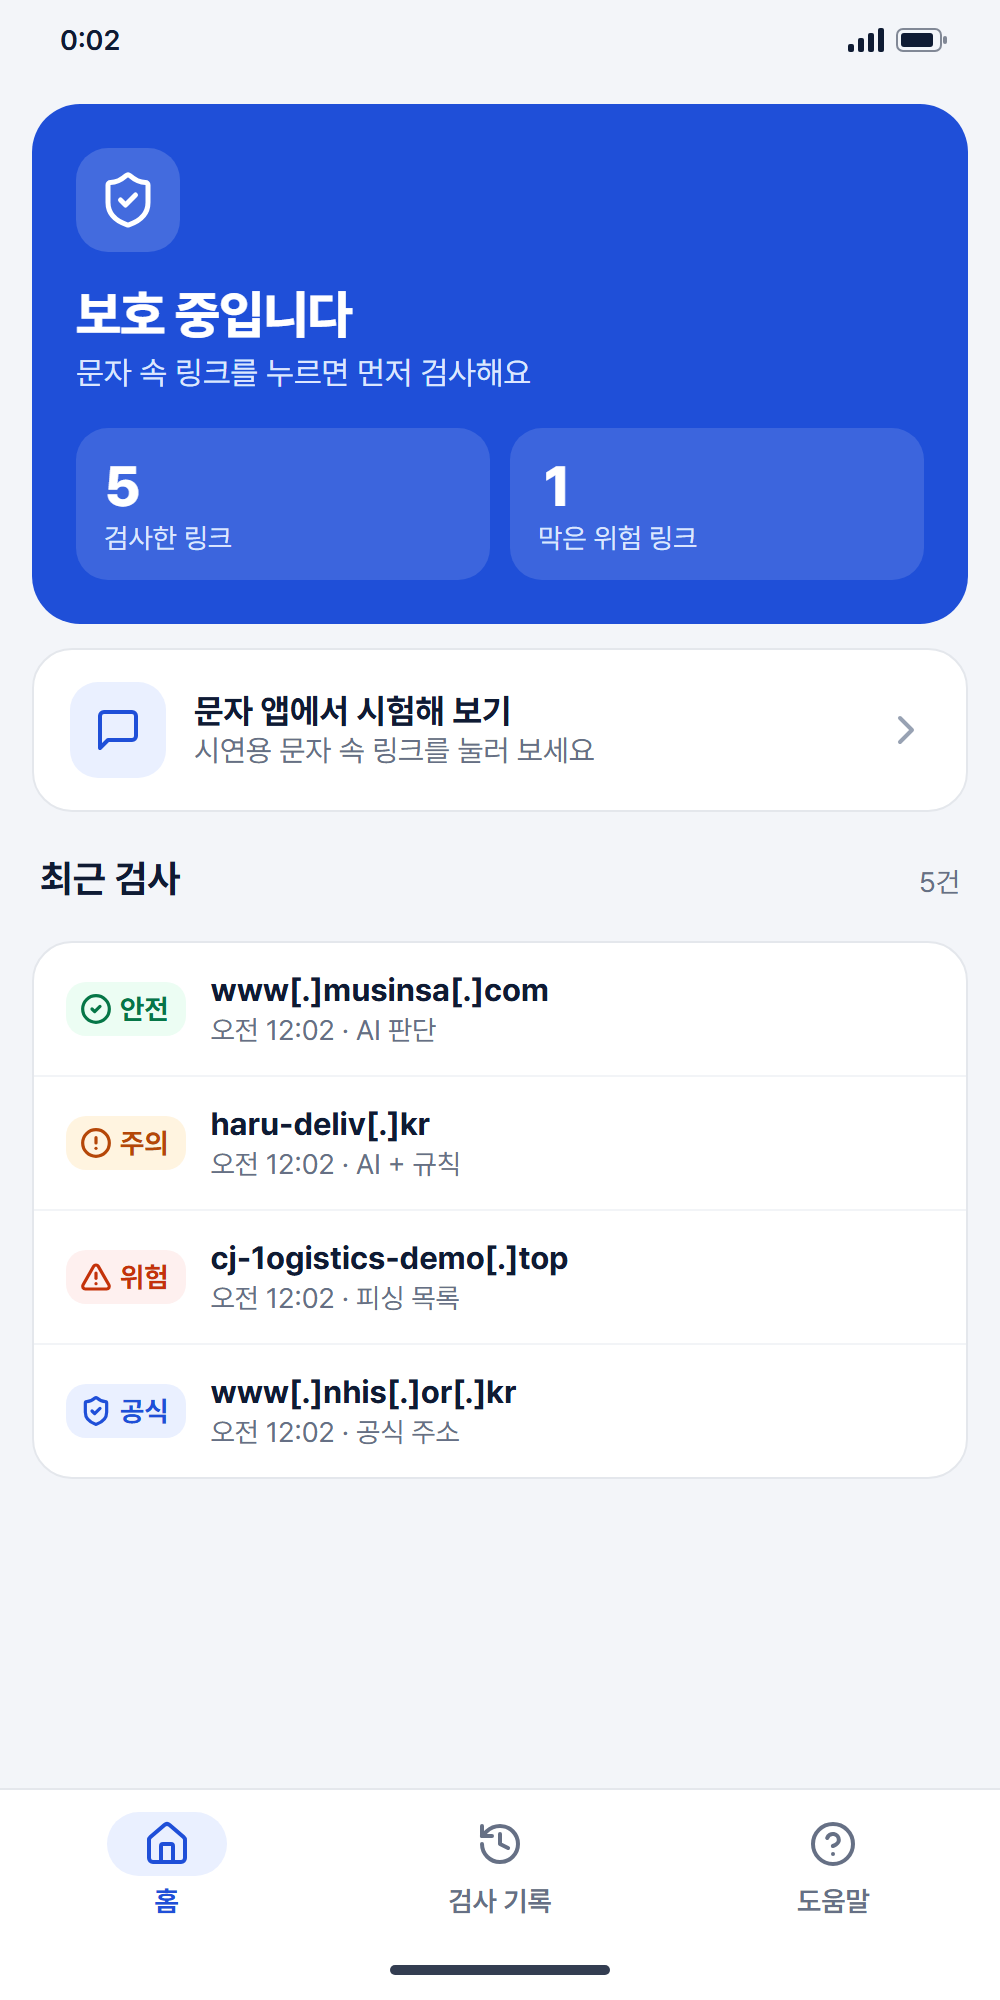
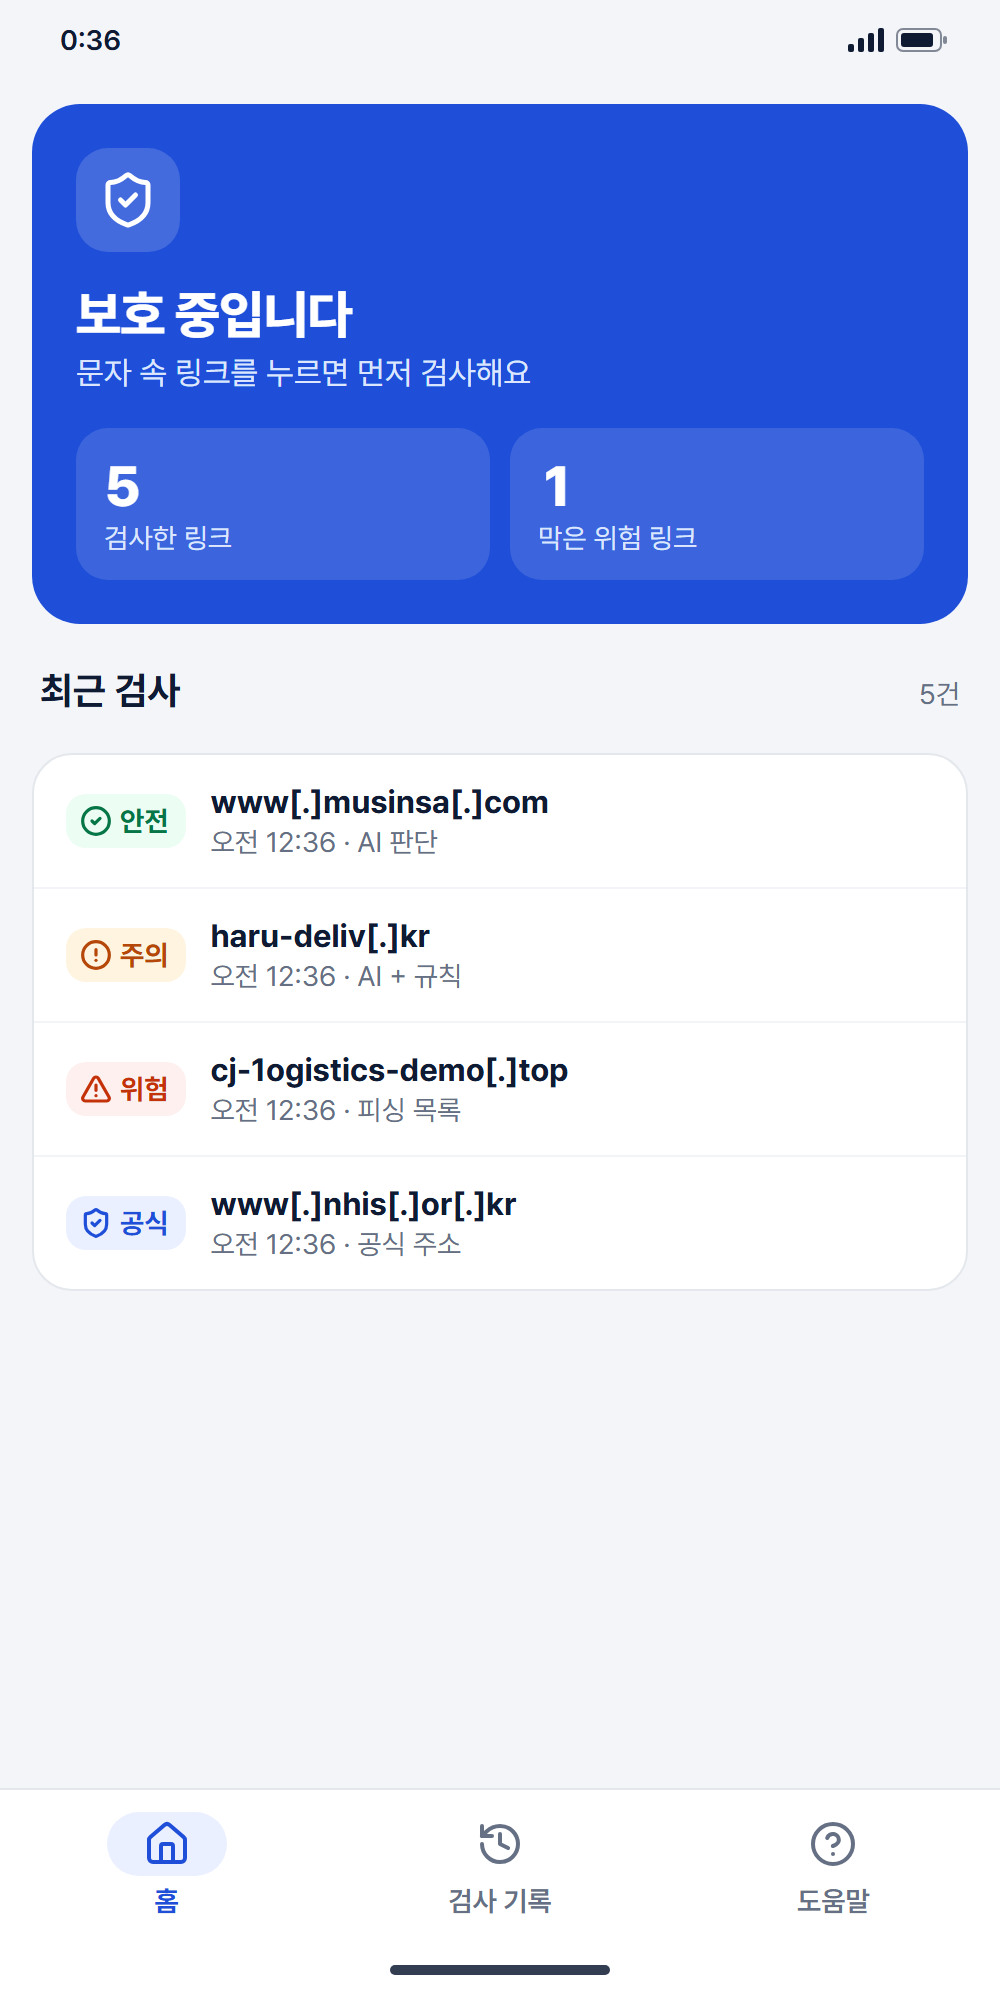
KoK 홈의 시험해 보기 버튼 삭제

diff --git a/index.html b/index.html
@@ -118,11 +118,6 @@ input:focus-visible,textarea:focus-visible{outline:none;border-color:var(--blue)
 .stats b{display:block;font-size:28px;font-weight:800;line-height:1.1;font-variant-numeric:tabular-nums}
 .stats span{font-size:14px;color:#DCE6FF}
 .card{background:#fff;border-radius:20px;margin:12px 16px 0;border:1px solid var(--g200)}
-.trial{display:flex;align-items:center;gap:14px;padding:16px 18px;width:calc(100% - 32px);text-align:left}
-.trial .ic{width:48px;height:48px;border-radius:14px;background:var(--blue-soft);color:var(--blue);display:grid;place-items:center}
-.trial b{display:block;font-size:17px}.trial span{font-size:15px;color:var(--g500)}
-.trial:hover{background:#FAFBFF}
-.trial .chev{margin-left:auto;color:var(--g400)}
 .sec{display:flex;justify-content:space-between;align-items:baseline;padding:22px 20px 8px}
 .sec b{font-size:19px}.sec span{font-size:14px;color:var(--g500)}
 .rec{display:flex;gap:12px;align-items:center;padding:14px 16px;border-top:1px solid var(--g100)}
@@ -405,8 +400,6 @@ function kok(){
         h('p', {}, '문자 속 링크를 누르면 먼저 검사해요'),
         h('div', {class:'stats'}, h('div', {}, h('b', {}, state.total), h('span', {}, '검사한 링크')),
           h('div', {}, h('b', {}, state.blocked), h('span', {}, '막은 위험 링크')))),
-      h('button', {class:'card trial', onclick:() => go('inbox')}, h('div', {class:'ic'}, icon('message')),
-        h('div', {}, h('b', {}, '문자 앱에서 시험해 보기'), h('span', {}, '시연용 문자 속 링크를 눌러 보세요')), h('span', {class:'chev'}, icon('right'))),
       h('div', {class:'sec'}, h('b', {}, '최근 검사'), state.history.length ? h('span', {}, `${state.history.length}건`) : null),
       records(state.history.slice(0, 4)));
   } else if (state.kokTab === 'history') {
